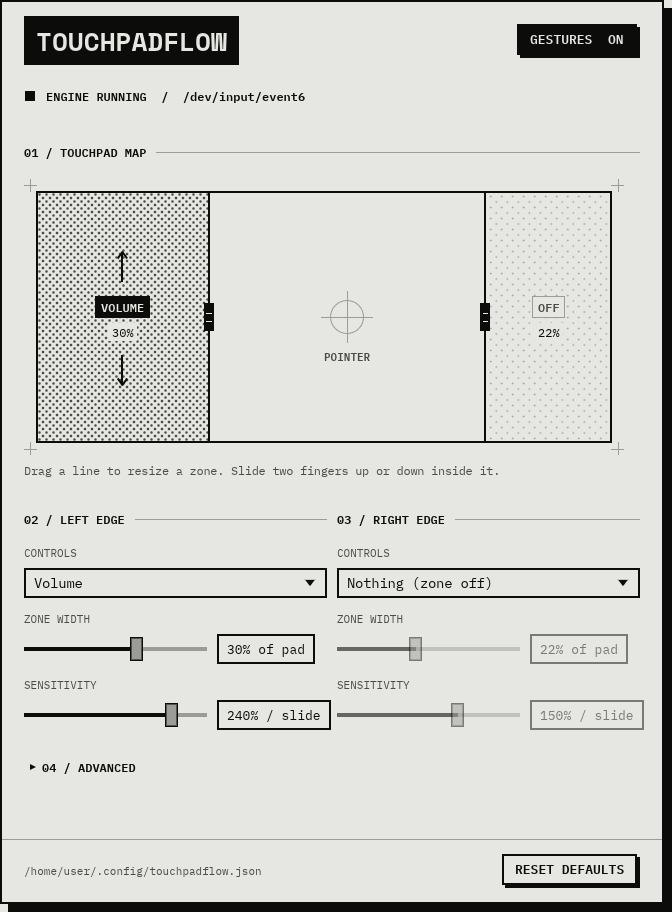
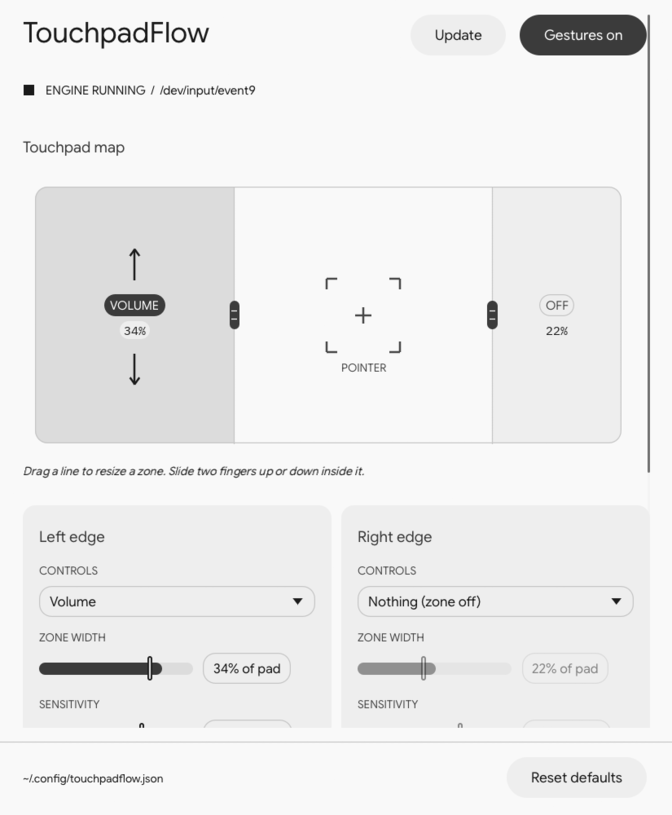
README: new screenshots, themes and macros
- Regenerate hero, app-custom, app-off and the zone-drag GIF from the
  current app (Light ink page, Dark, Material)
- Add app-macros.png and a Macros section (tab scrolling with
  ctrl+tab / ctrl+shift+tab, per-app rules and kdotool on KDE)
- Settings table gains Macros and Look; Update button now top right

diff --git a/README.md b/README.md
@@ -1,5 +1,5 @@
 <p align="center">
-  <img src="docs/images/hero.png" alt="The TouchpadFlow settings app, in light and dark mode" width="100%">
+  <img src="docs/images/hero.png" alt="The TouchpadFlow settings app: the Light ink theme beside the Material theme in dark mode" width="100%">
 </p>
 
 <h1 align="center">TouchpadFlow</h1>
@@ -44,7 +44,7 @@ Prefer a normal installer? Grab it from the [**releases page**](https://github.c
 - **macOS:** `TouchpadFlow-macos-universal.dmg`. Drag **TouchpadFlow** to Applications and open it once; it starts the engine at every login from then on.
   The build is not notarized, so the first time right-click the app → **Open** (or run `xattr -dr com.apple.quarantine /Applications/TouchpadFlow.app`).
 
-Already installed? The **UPDATE** button in the app installs the latest release for you.
+Already installed? The **Update** button at the top right of the app installs the latest release for you.
 
 ---
 
@@ -76,7 +76,9 @@ Open **TouchpadFlow** from your app menu. Changes apply the moment you make them
 | **Touchpad map** | Drag a line to make a zone wider or narrower (5–45% of the pad). |
 | **Controls** | Choose what each edge changes: *Brightness*, *Volume*, or *Nothing*. |
 | **Sensitivity** | How much one full top-to-bottom slide changes the value. |
+| **Macros** | Bind three- and four-finger gestures to key combos or commands, for every app or only some. See [Macros](#macros). |
 | **Advanced** | A small dead zone so resting fingers don't nudge values, and how long an edge touch waits for a second finger. |
+| **Look** | *System*, *Light*, *Dark* or *Material*, and **Background** to switch the ink page off. |
 
 <table>
   <tr>
@@ -84,12 +86,12 @@ Open **TouchpadFlow** from your app menu. Changes apply the moment you make them
     <td width="50%"><img src="docs/images/app-off.png" alt="Gestures switched off, dark mode"></td>
   </tr>
   <tr>
-    <td align="center"><sub>Left edge set to volume, right edge turned off</sub></td>
-    <td align="center"><sub>Gestures off, in dark mode</sub></td>
+    <td align="center"><sub>Material theme: left edge set to volume with a wider zone, right edge off</sub></td>
+    <td align="center"><sub>Gestures off, Dark theme</sub></td>
   </tr>
 </table>
 
-The app follows your system's light or dark theme.
+**Themes.** *Light* and *Dark* are black ink on paper, with an ink page behind them (drips, halftone, hatching) that **Background** turns off. *Material* is Material 3 in neutral greys, with rounded cards and pill buttons. *System* and *Material* follow your desktop's light or dark setting, on Linux too.
 
 ---
 
@@ -101,6 +103,20 @@ The app follows your system's light or dark theme.
 | Three-finger swipe left / right | Previous / next track |
 | Four-finger swipe up / down | Overview / show desktop *(KDE Plasma)* |
 | Four-finger swipe left / right | Previous / next virtual desktop *(KDE Plasma)* |
+
+---
+
+## Macros
+
+Bind any three- or four-finger swipe or tap to a key combo (`ctrl+tab`), a sequence (`ctrl+l, enter`) or a command (`command:...`). Use **Rec** to record a combo by pressing it.
+
+**Scroll through browser tabs:** bind *Three-finger swipe right* to `ctrl+tab` and *Three-finger swipe left* to `ctrl+shift+tab`. A macro swipe keeps firing as you keep sliding, so one long slide moves through several tabs, and sliding back goes the other way.
+
+<p align="center">
+  <img src="docs/images/app-macros.png" alt="Two macros: three-finger swipe right sends ctrl+tab, swipe left sends ctrl+shift+tab" width="560">
+</p>
+
+Put app names in **Apps** (for example `firefox`) to limit a macro to those windows; leave it empty to run everywhere. On KDE Plasma, per-app macros need `kdotool` (`sudo dnf install kdotool` on Fedora); the app tells you if it is missing.
 
 ---
 
